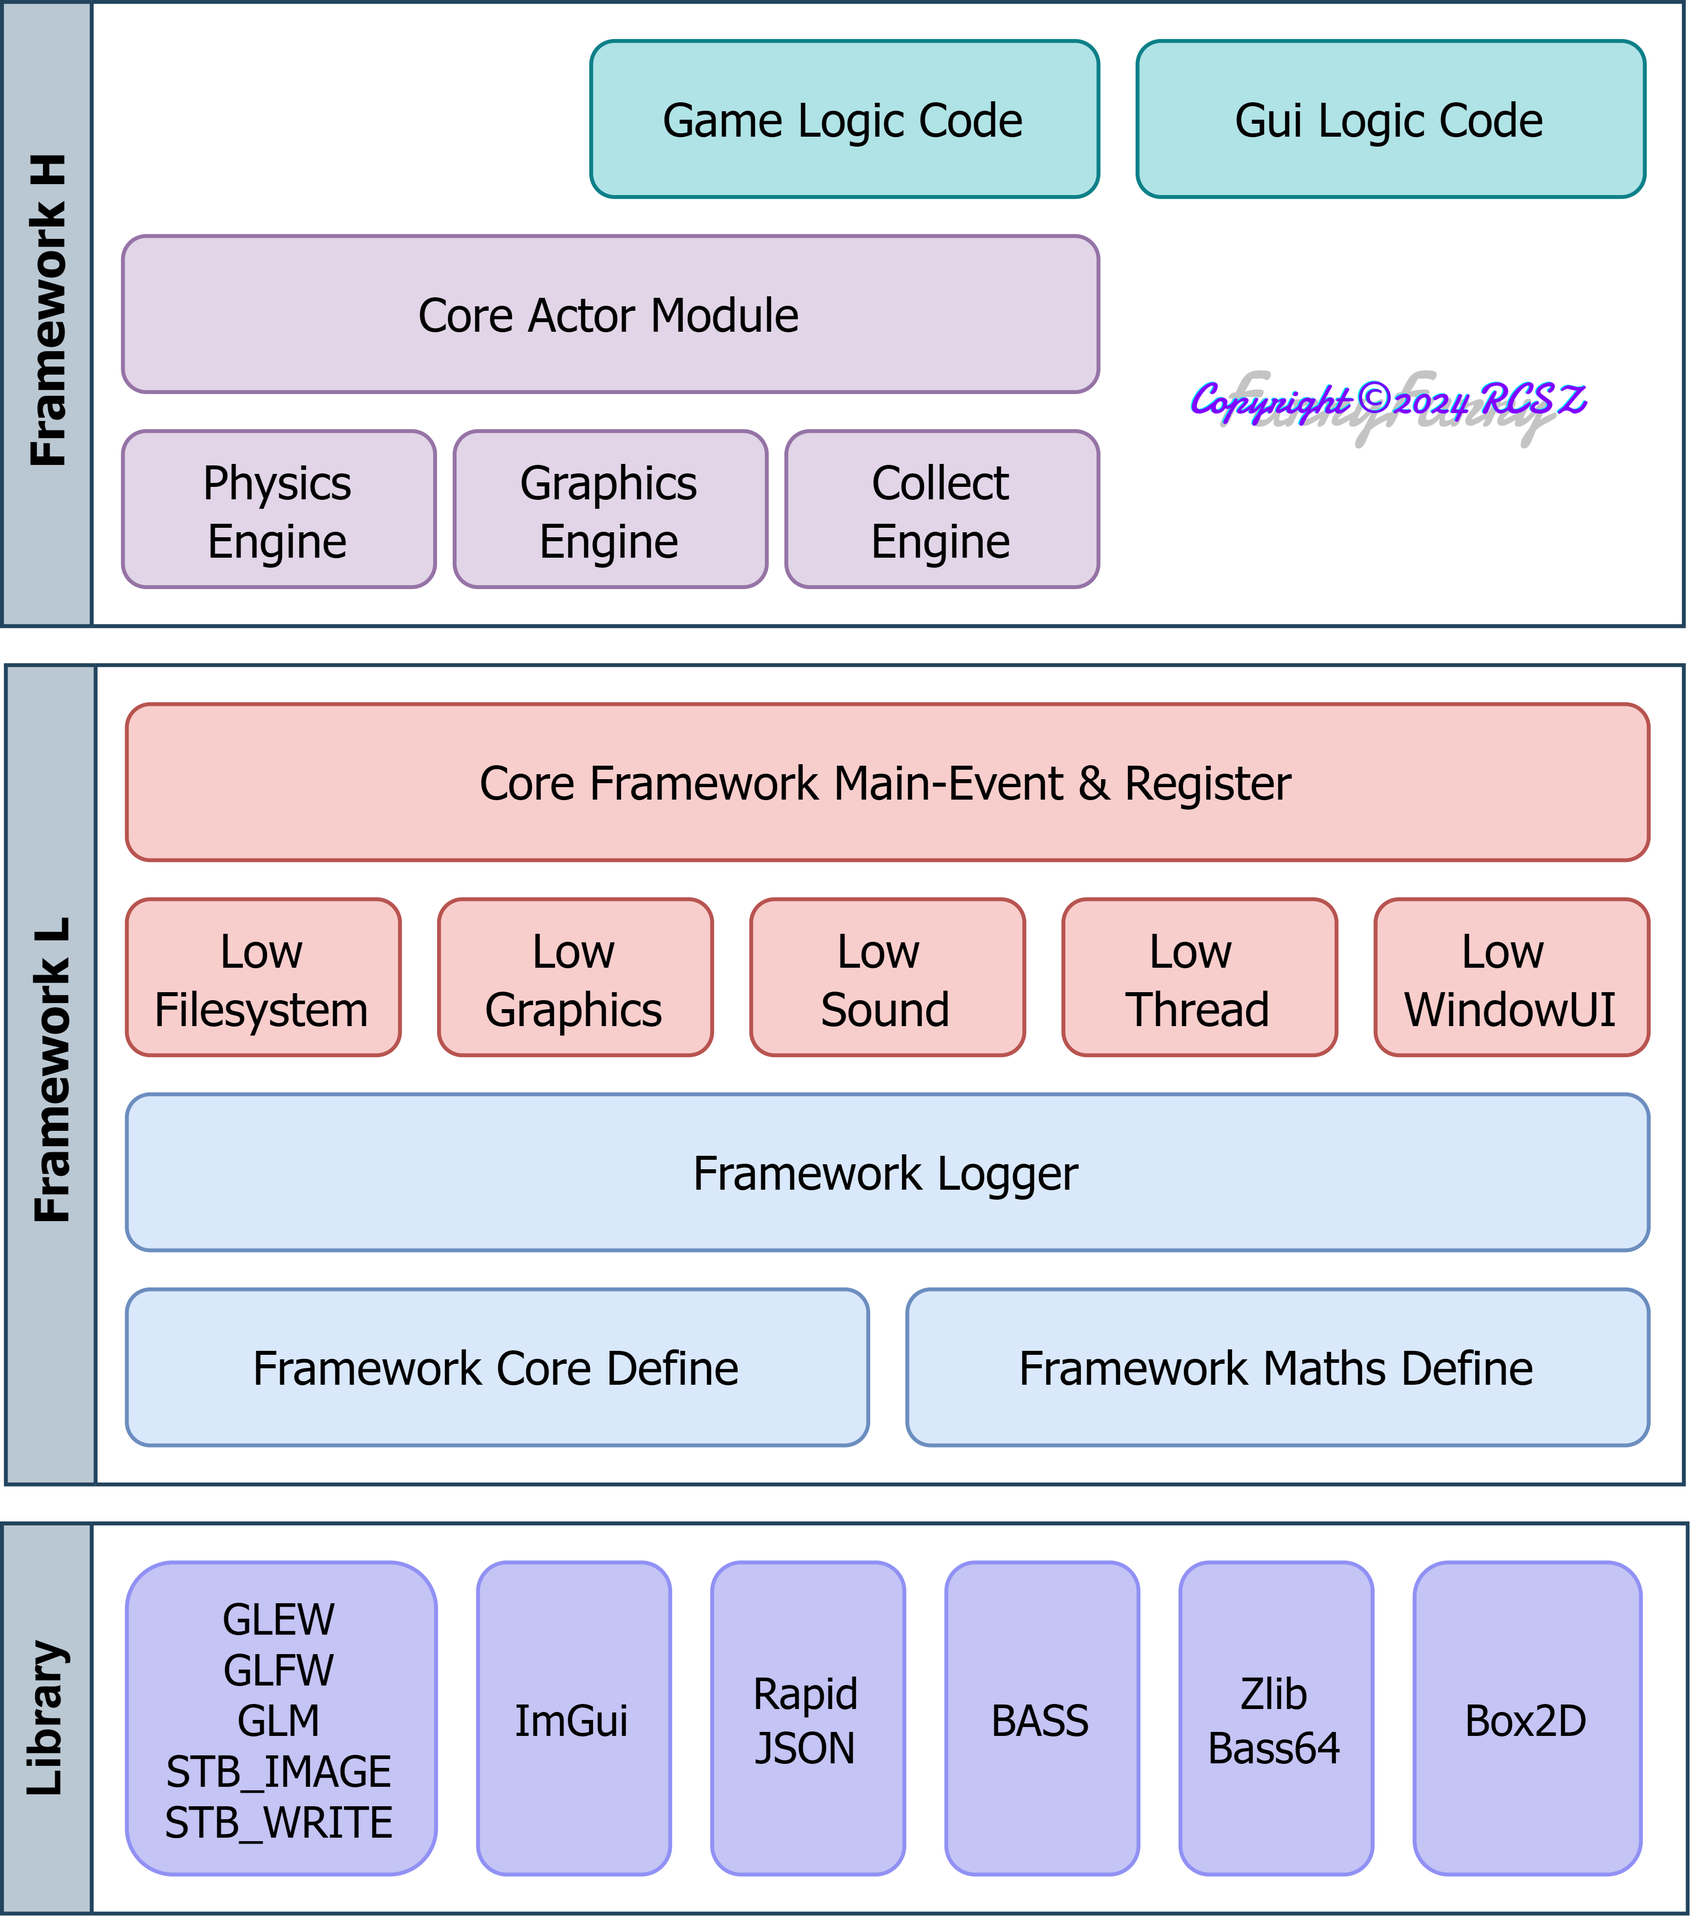
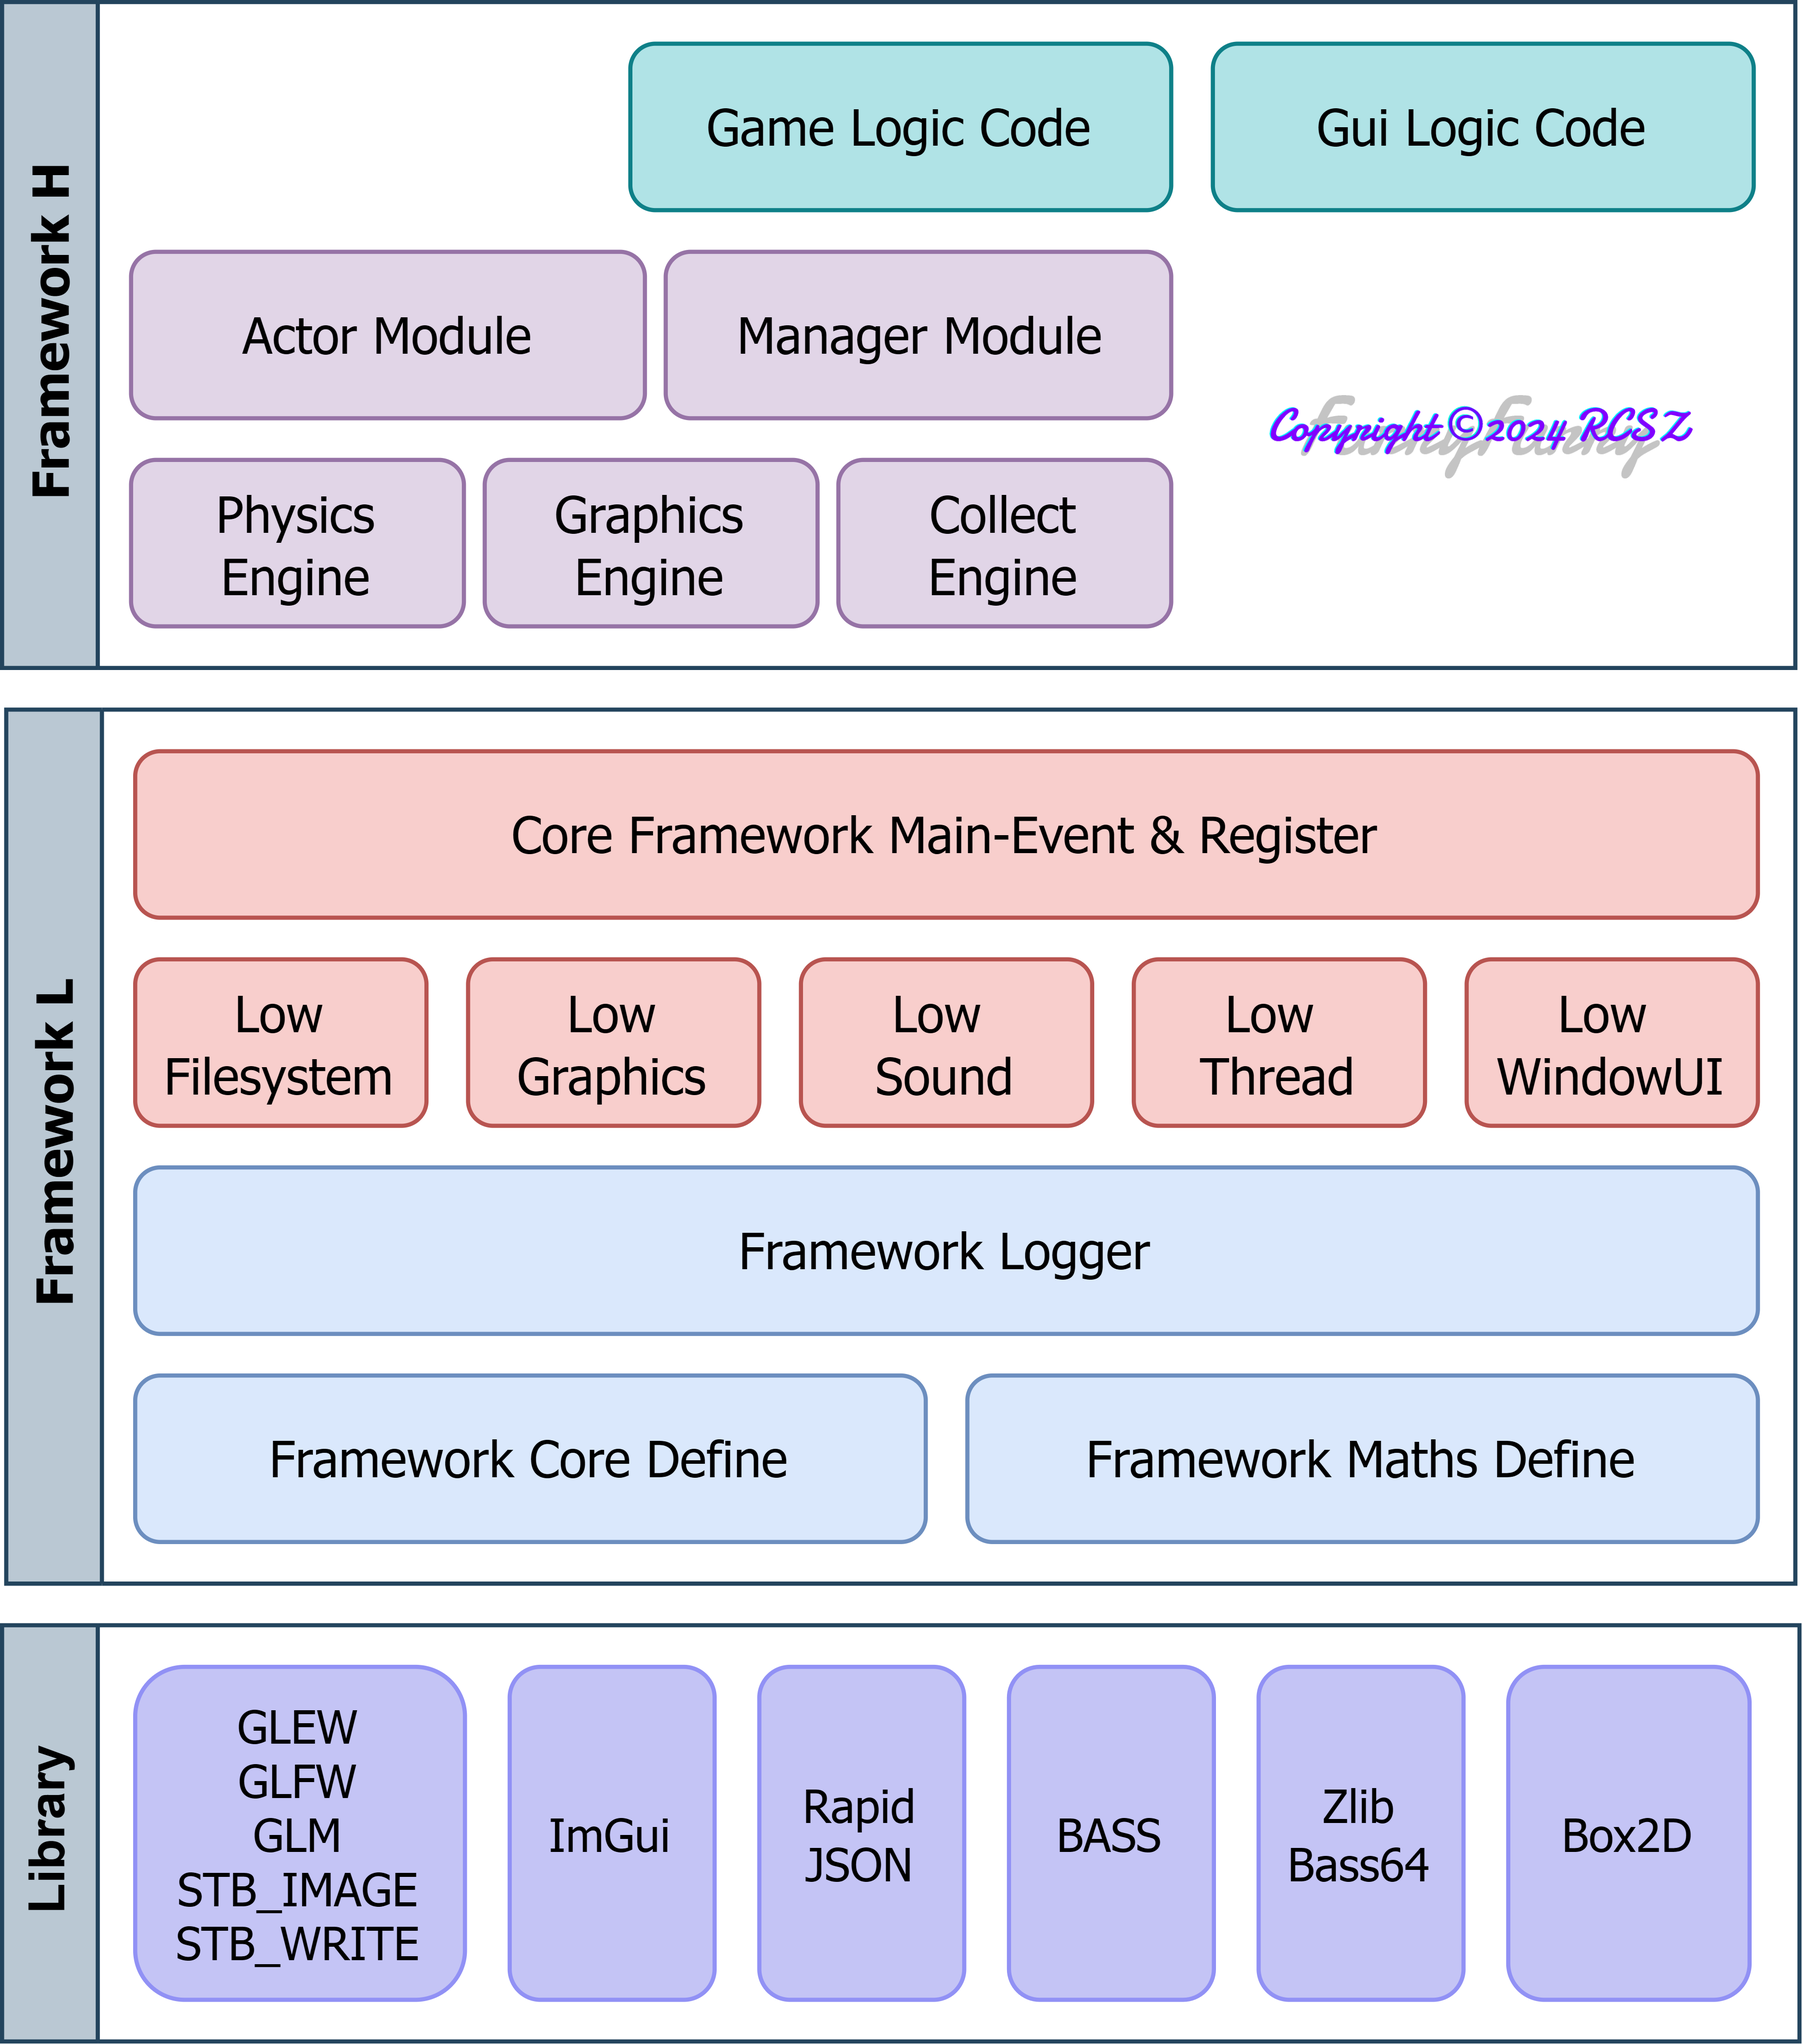
v20240728.0241 (开始施工框架上层封装)

Changed region(s): [[0.124, 0.125, 0.62, 0.2187], [0.0, 0.8435, 0.031, 0.9373]]

diff --git a/PSAGameFramework/PSAGameFrameworkCore/CoreGameManager/psag_manager_module_fx.cpp b/PSAGameFramework/PSAGameFrameworkCore/CoreGameManager/psag_manager_module_fx.cpp
@@ -1,0 +1,55 @@
+// psag_manager_module_fx.
+#include "psag_manager_module.hpp"
+
+using namespace std;
+using namespace PSAG_LOGGER;
+
+namespace GameManagerCore {
+	namespace GameFX {
+
+		GameFxParticle::GameFxParticle(const GameFxParticleDESC& INIT_DESC) {
+			FxParticleObject = new 
+				GraphicsEngineParticle::PsagGLEngineParticle(INIT_DESC.ParticleRenderResolution, INIT_DESC.ParticleRenderTexture);
+			// set particle calc mode.
+			FxParticleObject->ParticleClacMode(
+				(GraphicsEngineParticle::ParticleCalcMode)INIT_DESC.ParticleUpdateCalcMode
+			);
+			PushLogger(LogInfo, PSAGM_MANAGER_FX_LABEL, "manager fx_particle init.");
+		}
+
+		GameFxParticle::~GameFxParticle() {
+			delete FxParticleObject;
+
+			PushLogger(LogInfo, PSAGM_MANAGER_FX_LABEL, "manager fx_particle init.");
+		}
+
+		bool GameFxParticle::FxParticleCreateGroup(const GameFxCreateParticleDESC& CREATE_DESC) {
+			GraphicsEngineParticle::ParticleGenerator ParticleGroupCreate = {};
+
+			ParticleGroupCreate.ConfigCreateNumber(CREATE_DESC.PariclesNumber);
+			ParticleGroupCreate.ConfigCreateMode  (CREATE_DESC.ParticlesLaunchMode);
+
+			ParticleGroupCreate.ConfigLifeDispersion(CREATE_DESC.ParticlesLifeRandom);
+			ParticleGroupCreate.ConfigSizeDispersion(CREATE_DESC.ParticlesSizeRandom);
+
+			ParticleGroupCreate.ConfigRandomColorSystem(
+				CREATE_DESC.ParticlesCrRandom,
+				CREATE_DESC.ParticlesCgRandom,
+				CREATE_DESC.ParticlesCbRandom
+			);
+			ParticleGroupCreate.ConfigRandomDispersion(
+				CREATE_DESC.ParticlesVecRandom,
+				CREATE_DESC.ParticlesPosRandom,
+				CREATE_DESC.ParticlesPosOffsetRandom
+			);
+			// particle generator => particle system.
+			FxParticleObject->ParticleCreate(&ParticleGroupCreate);
+		}
+
+		void GameFxParticle::FxParticleRendering() {
+			// particle system calc(update) => rendering.
+			FxParticleObject->UpdateParticleData();
+			FxParticleObject->RenderParticleFX();
+		}
+	}
+}

diff --git a/PSAGameFramework/PSAGameFrameworkCore/CoreFramework/GraphicsEngine/psag_graphics_engine.h b/PSAGameFramework/PSAGameFrameworkCore/CoreFramework/GraphicsEngine/psag_graphics_engine.h
@@ -502,6 +502,12 @@ namespace GraphicsEngineParticle {
 		void CreateAddParticleDataset(std::vector<ParticleAttributes>& Data) override;
 	};
 
+	enum ParticleCalcMode {
+		CalcDefault   = 1 << 1,
+		CalcOpenMP    = 1 << 2,
+		CalcEmptyOper = 1 << 3
+	};
+
 	class PsagGLEngineParticle :
 		public GraphicsEngineDataset::GLEngineDyVertexData,
 		public GraphicsEngineDataset::GLEngineSmpTextureData,
@@ -509,8 +515,9 @@ namespace GraphicsEngineParticle {
 		public __GRAPHICS_ENGINE_TIMESETP
 	{
 	private:
-		static void CalcUpdateParticlesOMP(std::vector<ParticleAttributes>& particles, float speed, float lifesub);
-		static void CalcUpdateParticles   (std::vector<ParticleAttributes>& particles, float speed, float lifesub);
+		static void CalcUpdateParticlesOMP (std::vector<ParticleAttributes>& particles, float speed, float lifesub);
+		static void CalcUpdateParticlesNULL(std::vector<ParticleAttributes>& particles, float speed, float lifesub) {};
+		static void CalcUpdateParticles    (std::vector<ParticleAttributes>& particles, float speed, float lifesub);
 
 		std::function<void(std::vector<ParticleAttributes>&, float, float)>
 			UPDATE_CALC_FUNC = {};
@@ -538,10 +545,10 @@ namespace GraphicsEngineParticle {
 		~PsagGLEngineParticle();
 
 		void ParticleCreate(ParticleGeneratorBase* generator);
-		void ParticleEnableOMP(bool openmp_switch, int threads = 4);
+		void ParticleClacMode(ParticleCalcMode mode, int threads = 4);
 
-		ParticleSystemState				 GetParticleState();
 		std::vector<ParticleAttributes>* GetParticleDataset();
+		ParticleSystemState				 GetParticleState();
 
 		void SetParticleTwisted(float value) {
 			RenderTwist = value;

diff --git a/PSAGameFramework/PSAGameFrameworkCore/CoreGameActor/psag_actor_module.hpp b/PSAGameFramework/PSAGameFrameworkCore/CoreGameActor/psag_actor_module.hpp
@@ -2,18 +2,26 @@
 
 #ifndef __PSAG_ACTOR_MODULE_HPP
 #define __PSAG_ACTOR_MODULE_HPP
-// graphics & physics & collect engine => actor_module.
+// graphics & physics engine => actor_module.
 #include "../CoreFramework/GraphicsEngine/psag_graphics_engine.h"
 #include "../CoreFramework/PhysicsEngine/psag_physics_engine.h"
-#include "../CoreFramework/CollectEngine/psag_collect_engine.h"
 
 class __ACTOR_MODULES_TIMESTEP {
 protected:
 	static float ActorModulesTimeStep;
 };
 
-namespace GameToolsCore {
-	namespace Random = CollectEngineRandom;
+namespace GamePhysicsOper {
+	// name, mode, params = {}
+	// mode: 1:create, 2:delete params: x:gravity_vec_x, y:gravity_vec_y
+	class GamePhysicalWorld :public PhysicsEngine::PhyEngineCoreDataset {
+	public:
+		GamePhysicalWorld(std::string name_key, int mode, Vector2T<float> params = {}) {
+			if (mode == 1) OperFlag = PhysicsWorldCreate(name_key, params);
+			if (mode == 2) OperFlag = PhysicsWorldDelete(name_key);
+		}
+		bool OperFlag = false;
+	};
 }
 
 namespace GameActorScript {
@@ -45,17 +53,6 @@ namespace GameActorCore {
 	struct ActorPrivateINFO {
 		size_t   ActorUniqueCode;
 		uint32_t ActorTypeCode;
-	};
-
-	// name, mode, params = {}
-	// mode: 1:create, 2:delete params: x:gravity_vec_x, y:gravity_vec_y
-	class GameActorPhysicalWorld :public PhysicsEngine::PhyEngineCoreDataset {
-	public:
-		GameActorPhysicalWorld(std::string name_key, int mode, Vector2T<float> params = {}) {
-			if (mode == 1) OperFlag = PhysicsWorldCreate(name_key, params);
-			if (mode == 2) OperFlag = PhysicsWorldDelete(name_key);
-		}
-		bool OperFlag = false;
 	};
 
 	/* Actor Fragment ShaderTexture:

diff --git a/PSAGameFramework/PSAGameFrameworkCore/framework_dev_actor.h b/PSAGameFramework/PSAGameFrameworkCore/framework_dev_actor.h
@@ -1,0 +1,29 @@
+// framework_dev_actor. RCSZ. 20240727. 
+// dev_support: actor
+
+#ifndef __FRAMEWORK_DEV_ACTOR_H
+#define __FRAMEWORK_DEV_ACTOR_H
+#include "../PSAGameFrameworkCore/CoreFramework/psag_mainevent_support.h"
+
+namespace PsagActor {
+	namespace DebugTools = GameDebugGuiWindow;
+
+	using VertexDESC  = GameActorCore::GameActorShaderVerticesDESC;
+	using ActorHpDESC = GameActorCore::GameActorHealthDESC;
+	using ActorDESC   = GameActorCore::GameActorActuatorDESC;
+	using BrickDESC   = GameBrickCore::GameBrickActuatorDESC;
+
+	using ActorUnique = GameActorCore::ActorPrivateINFO;
+	using BirckUnique = GameActorCore::ActorPrivateINFO;
+
+	using ActorRender = GameActorCore::GameActorShader;
+	using Actor       = GameActorCore::GameActorActuator;
+	using Brick       = GameBrickCore::GameBrickActuator;
+
+	using ActorsManager = GameCoreManager::GameActorActuatorManager;
+	using BricksManager = GameCoreManager::GameBrickActuatorManager;
+
+	using OperPhysicalWorld = GamePhysicsOper::GamePhysicalWorld;
+}
+
+#endif

diff --git a/PSAGameFramework/PSAGameFrameworkCore/CoreFramework/GraphicsEngine/psag_graphics_engine_particle.cpp b/PSAGameFramework/PSAGameFrameworkCore/CoreFramework/GraphicsEngine/psag_graphics_engine_particle.cpp
@@ -340,15 +340,17 @@ namespace GraphicsEngineParticle {
 		generator->CreateAddParticleDataset(DataParticles);
 	}
 
-	void PsagGLEngineParticle::ParticleEnableOMP(bool openmp_switch, int threads) {
-		if (openmp_switch) {
+	void PsagGLEngineParticle::ParticleClacMode(ParticleCalcMode mode, int threads) {
+		// particles calc(update) func_load.
+		switch (mode) {
+		case(CalcDefault): { UPDATE_CALC_FUNC = CalcUpdateParticles; break; }
+		case(CalcOpenMP): { 
 			UPDATE_CALC_FUNC = CalcUpdateParticlesOMP;
 			omp_set_num_threads(threads);
-			return;
+			break;
 		}
-		// default calc_comp.
-		UPDATE_CALC_FUNC = CalcUpdateParticles;
-		omp_set_num_threads(1);
+		case(CalcEmptyOper): { UPDATE_CALC_FUNC = CalcUpdateParticlesNULL; break; }
+		}
 	}
 
 	vector<ParticleAttributes>* PsagGLEngineParticle::GetParticleDataset() {

diff --git a/PSAGameFramework/PSAGameFrameworkCore/CoreGameActor/psag_actor_module_debug.cpp b/PSAGameFramework/PSAGameFrameworkCore/CoreGameActor/psag_actor_module_debug.cpp
@@ -38,8 +38,8 @@ namespace GameDebugGuiWindow {
 		ImGui::End();
 	}
 
-	void DebugWindowGuiActors(unordered_map<size_t, GameActorCore::GameActorActuator*>* actors) {
-		ImGui::Begin("DebugActors", (bool*)NULL, ImGuiWindowFlags_NoScrollbar);
+	void DebugWindowGuiActors(const char* name, unordered_map<size_t, GameActorCore::GameActorActuator*>* actors) {
+		ImGui::Begin(name, (bool*)NULL, ImGuiWindowFlags_NoScrollbar);
 		ImGui::TextColored(ImVec4(1.0f, 0.0f, 1.0f, 0.92f), "Actors Number: %u", actors->size());
 
 		int CountItemID = NULL;

diff --git a/PSAGameFramework/PSAGameFrameworkCore/CoreFramework/psag_mainevent_support.h b/PSAGameFramework/PSAGameFrameworkCore/CoreFramework/psag_mainevent_support.h
@@ -10,8 +10,9 @@
 #define ENABLE_LOWMODULE_THREAD
 #define ENABLE_LOWMODULE_WINDOWGUI
 #include "psag_lowlevel_support.h"
-// framework core actor.
+// framework core actor & manager.
 #include "../CoreGameActor/psag_actor_module.hpp"
+#include "../CoreGameManager/psag_manager_module.hpp"
 
 namespace GameLogic {
     // framework run parameters.

diff --git a/PSAGameFramework/PSAGameFrameworkCore/framework_dev_manager.h b/PSAGameFramework/PSAGameFrameworkCore/framework_dev_manager.h
@@ -1,0 +1,14 @@
+// framework_dev_manager. RCSZ. 20240727.
+// dev_support: manager
+
+#ifndef __FRAMEWORK_DEV_MANAGER_H
+#define __FRAMEWORK_DEV_MANAGER_H
+#include "../PSAGameFrameworkCore/CoreFramework/psag_mainevent_support.h"
+
+namespace PsagManager {
+	namespace Tools {
+		namespace Random = CollectEngineRandom;
+	}
+}
+
+#endif

diff --git a/README.md b/README.md
@@ -2,7 +2,7 @@
 # PSAGame2D
 > PomeloStar 2D游戏开发框架.
 
-__当前版本:__ v20240727
+__当前版本:__ v20240728
 
 > 暂无文档, 目前还在施工中hhh🙂, 一堆模块还处于开发阶段. ( 希望别弃坑了~~前面还有一堆坑~~
 
@@ -14,8 +14,8 @@ __当前版本:__ v20240727
 - 设计理念使用描述符(DESC), 描述各对象以及挂载组件
 > 我粗略的学习过ECS, 此设计并没有ECS优秀, 只是个人尝试
 
-__开发进度:__ ████████░░ 80%
-> FrameworkCore Files: 65, LoC: 9974
+__开发进度:__ ████████░░ 81%
+> FrameworkCore Files: 69, LoC: 10163
 ---
 
 ## PSAG-ARCH 架构
